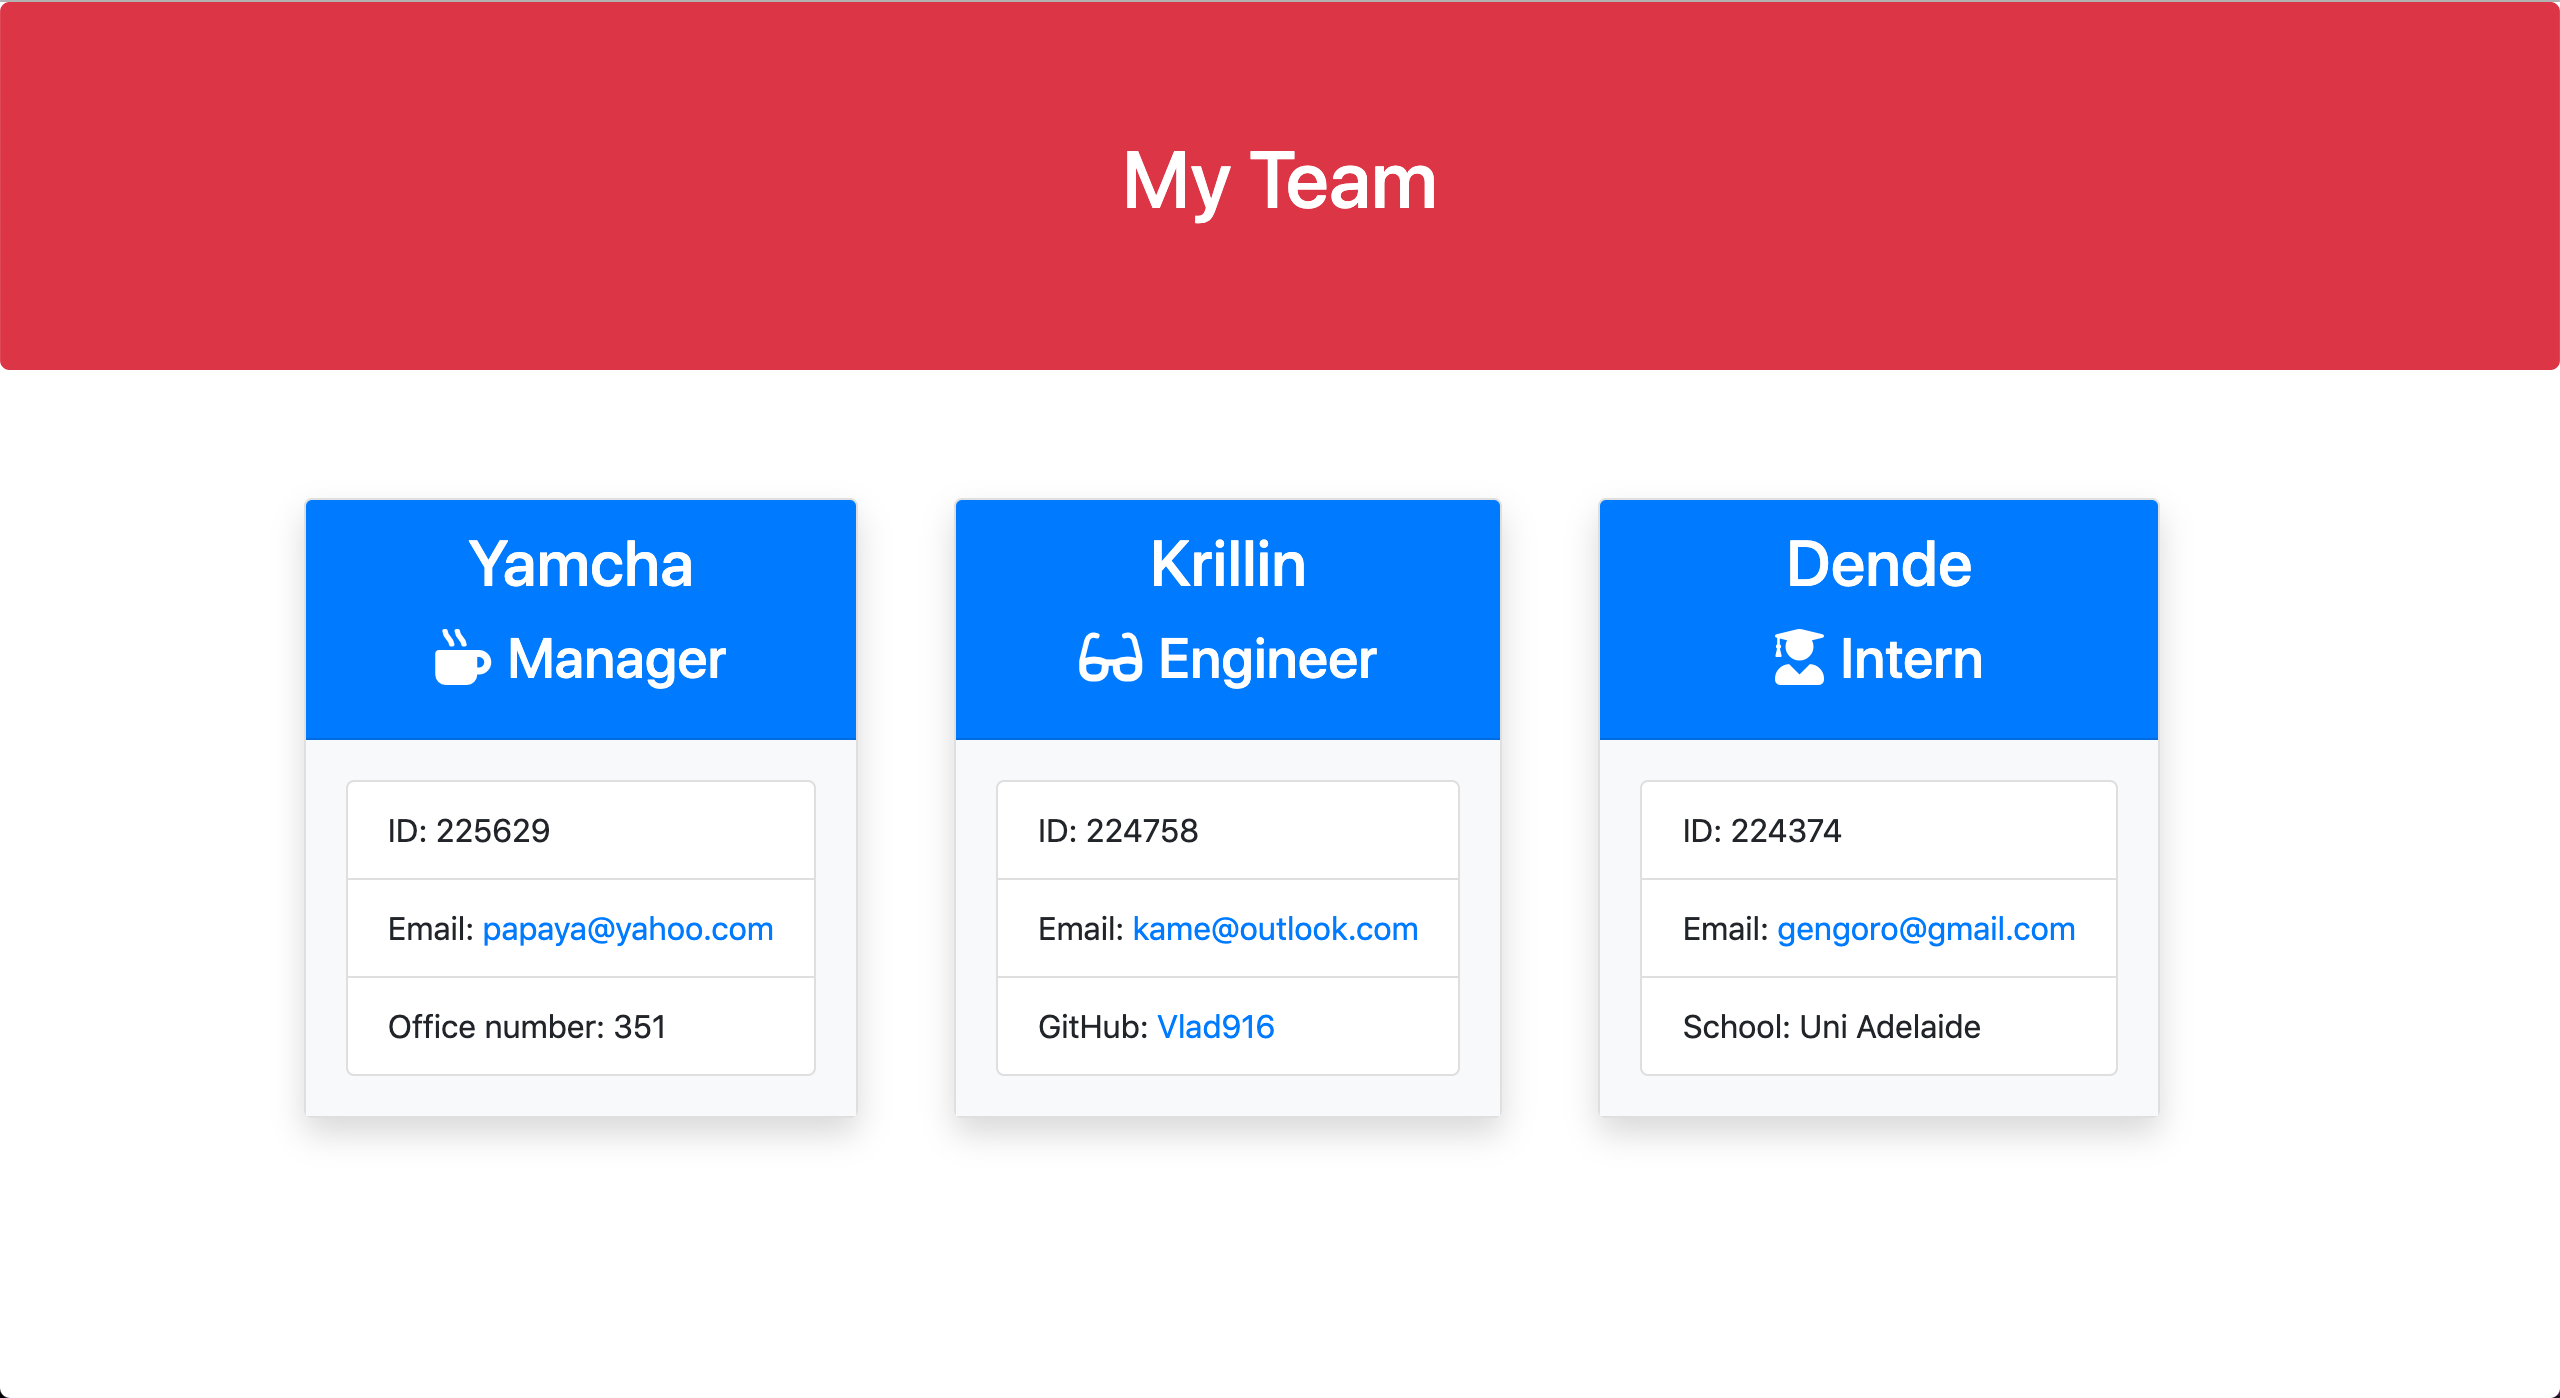
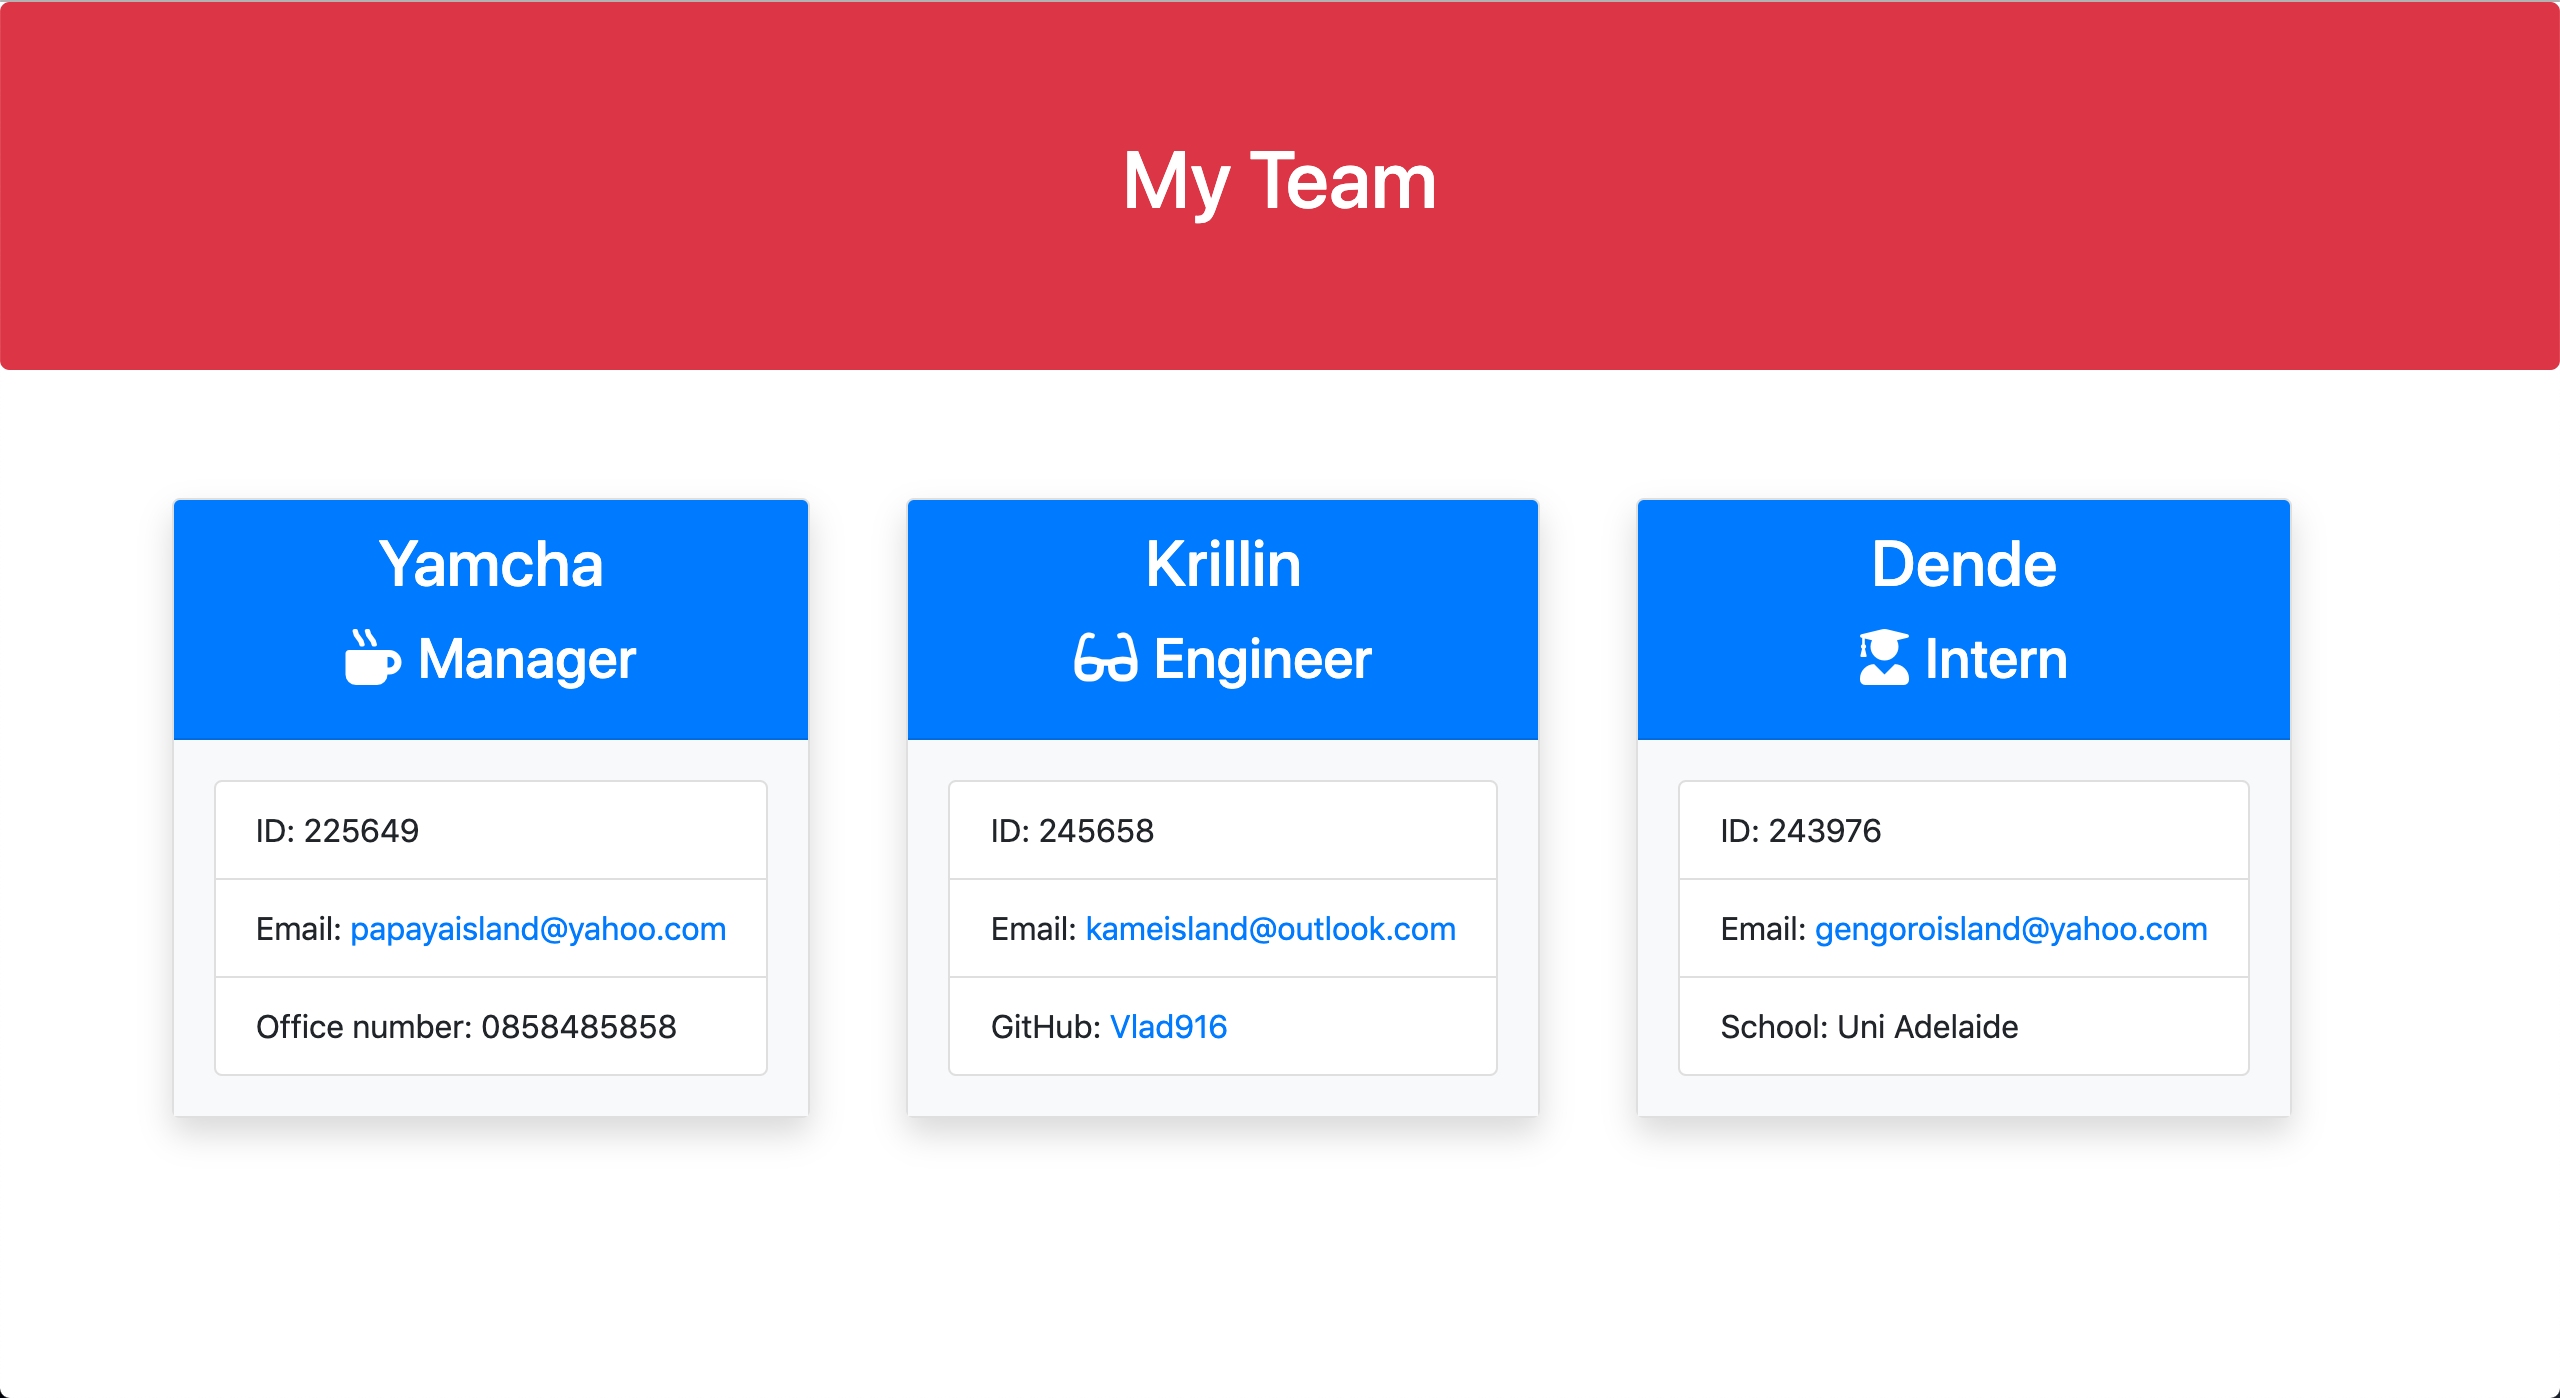
output updated.

diff --git a/output/team.html b/output/team.html
@@ -30,9 +30,9 @@
     </div>
     <div class="card-body bg-light">
         <ul class="list-group">
-            <li class="list-group-item">ID: 245748</li>
-            <li class="list-group-item">Email: <a href="mailto:papaya@gmail.com">papaya@gmail.com</a></li>
-            <li class="list-group-item">Office number: 324</li>
+            <li class="list-group-item">ID: 225649</li>
+            <li class="list-group-item">Email: <a href="mailto:papayaisland@yahoo.com">papayaisland@yahoo.com</a></li>
+            <li class="list-group-item">Office number: 0858485858</li>
         </ul>
     </div>
 </div>
@@ -43,8 +43,8 @@
     </div>
     <div class="card-body bg-light">
         <ul class="list-group">
-            <li class="list-group-item">ID: 248585</li>
-            <li class="list-group-item">Email: <a href="mailto:kame@yahoo.com">kame@yahoo.com</a></li>
+            <li class="list-group-item">ID: 245658</li>
+            <li class="list-group-item">Email: <a href="mailto:kameisland@outlook.com">kameisland@outlook.com</a></li>
             <li class="list-group-item">GitHub: <a href="https://github.com/Vlad916" target="_blank" rel="noopener noreferrer">Vlad916</a></li>
         </ul>
     </div>
@@ -56,8 +56,8 @@
     </div>
     <div class="card-body bg-light">
         <ul class="list-group">
-            <li class="list-group-item">ID: 254868</li>
-            <li class="list-group-item">Email: <a href="mailto:gengoro@outlook.com">gengoro@outlook.com</a></li>
+            <li class="list-group-item">ID: 243976</li>
+            <li class="list-group-item">Email: <a href="mailto:gengoroisland@yahoo.com">gengoroisland@yahoo.com</a></li>
             <li class="list-group-item">School: Uni Adelaide</li>
         </ul>
     </div>
